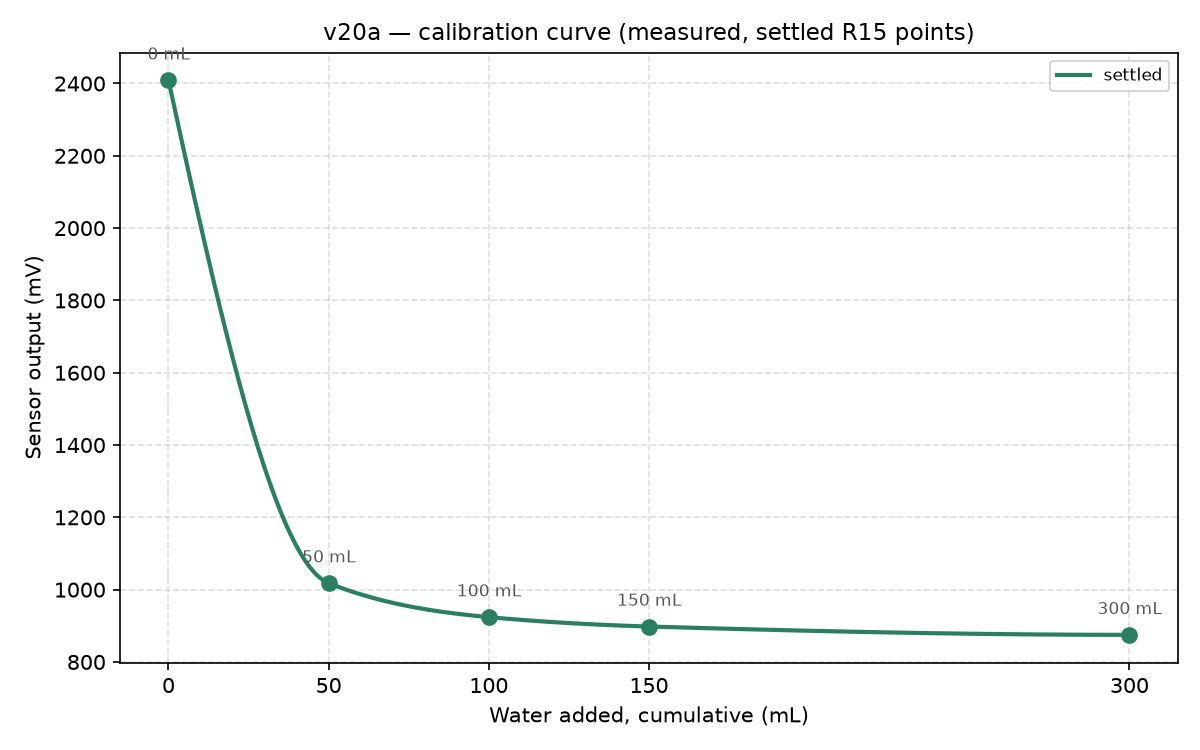
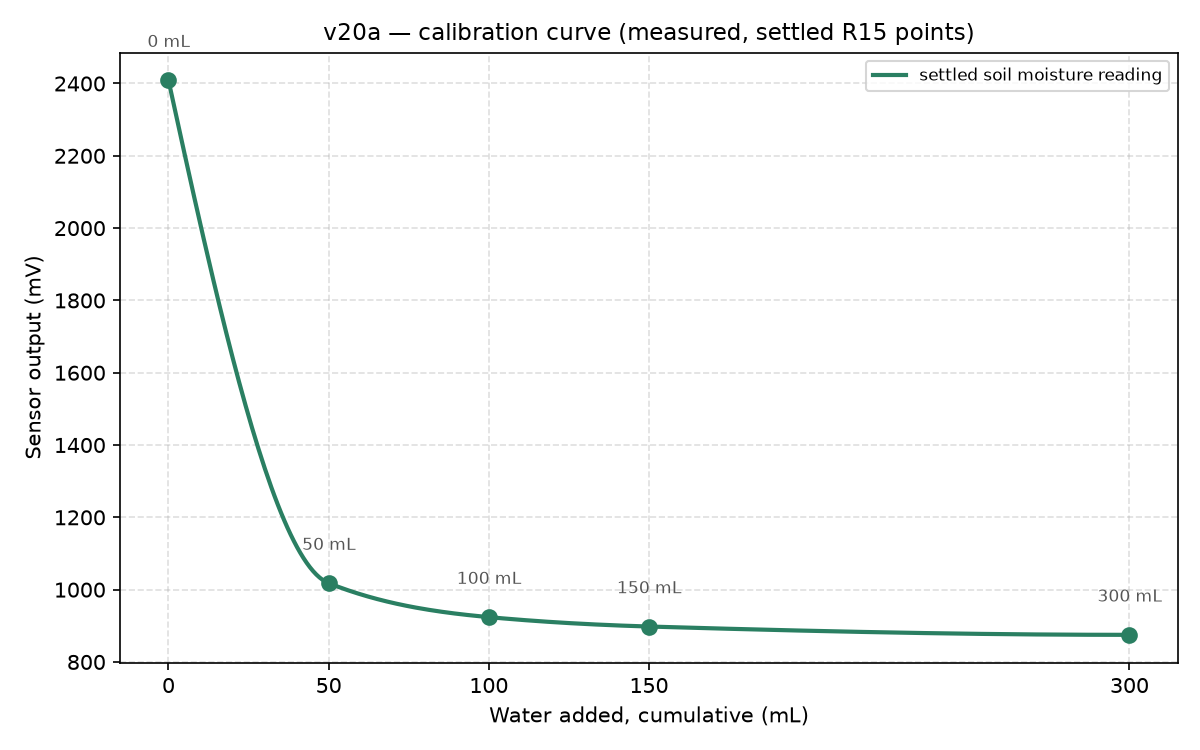
style(soil-calibration): raise mL labels off the curve, clarify legend
Point labels sat right on the steep early part of the line — push them up
16pt instead of 10. Legend said bare "settled", meaningless out of context;
rename to "settled soil moisture reading".

diff --git a/firmware/soil-calibration/tools/plot_calibration_curve.py b/firmware/soil-calibration/tools/plot_calibration_curve.py
@@ -139,14 +139,14 @@ def main() -> None:
         curve = PchipInterpolator(waters, mv)
         dense_x = [waters[0] + (waters[-1] - waters[0]) * i / 299 for i in range(300)]
         dense_y = curve(dense_x)
-        ax.plot(dense_x, dense_y, color="#2a7f62", linewidth=2, label="settled")
+        ax.plot(dense_x, dense_y, color="#2a7f62", linewidth=2, label="settled soil moisture reading")
         ax.plot(waters, mv, marker="o", color="#2a7f62", linewidth=0, markersize=7)
     else:
-        ax.plot(waters, mv, marker="o", color="#2a7f62", linewidth=2, markersize=7, label="settled")
+        ax.plot(waters, mv, marker="o", color="#2a7f62", linewidth=2, markersize=7, label="settled soil moisture reading")
 
     for w, v in zip(waters, mv, strict=True):
         ax.annotate(f"{w:.0f} mL", xy=(w, v), textcoords="offset points",
-                    xytext=(0, 10), ha="center", fontsize=8, color="#555555")
+                    xytext=(0, 16), ha="center", fontsize=8, color="#555555")
 
     if live_ml is not None:
         ax.plot(live_ml, live_mv, marker="o", markersize=10, markerfacecolor="none",
